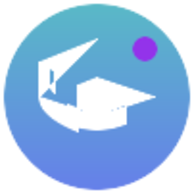
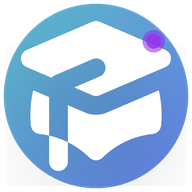
feat: モバイルアプリアイコンと同じデザインでfaviconを更新
- generate-favicons.pyをモバイルアプリアイコン(mobile/assets/icon.png)を使用するよう修正
- 全サイズのfavicon生成 (16x16, 32x32, ICO, SVG, Apple Touch Icon, Android Chrome)
- portal.blade.phpのfavicon参照を古いロゴから新しいfaviconに更新
- docs/README.mdにfavicon生成・更新手順を追加
- SVG形式をプライマリfaviconに設定（最新ブラウザ対応）

diff --git a/resources/views/layouts/portal.blade.php b/resources/views/layouts/portal.blade.php
@@ -9,8 +9,10 @@
         <title>@yield('title', 'ポータルサイト') - Famico</title>
 
         <!-- Favicons -->
-        <link rel="icon" type="image/png" href="{{ asset('images/famico-logo-20251123041515.png') }}">
-        <link rel="apple-touch-icon" href="{{ asset('images/famico-logo-20251123041515.png') }}">
+        <link rel="icon" type="image/svg+xml" href="{{ asset('favicon.svg') }}">
+        <link rel="alternate icon" type="image/png" sizes="32x32" href="{{ asset('favicon-32x32.png') }}">
+        <link rel="alternate icon" type="image/png" sizes="16x16" href="{{ asset('favicon-16x16.png') }}">
+        <link rel="apple-touch-icon" href="{{ asset('apple-touch-icon.png') }}">
         <link rel="manifest" href="{{ asset('site.webmanifest') }}">
         <meta name="theme-color" content="#59B9C6">
 

diff --git a/generate-favicons.py b/generate-favicons.py
@@ -1,12 +1,12 @@
 #!/usr/bin/env python3
 """
-Famicoロゴから各サイズのfaviconを生成するスクリプト
+モバイルアプリのアイコンから各サイズのfaviconを生成するスクリプト
 """
 from PIL import Image
 import os
 
-# 入力画像
-source = "public/images/famico-logo-20251123041515.png"
+# 入力画像（モバイルアプリのアイコンを使用）
+source = "mobile/assets/icon.png"
 output_dir = "public"
 
 # 生成するサイズ

diff --git a/docs/README.md b/docs/README.md
@@ -383,3 +383,70 @@ CACHE_STORE=array DB_HOST=localhost DB_PORT=5432 php artisan test tests/Feature/
 - **ログファイル**: `storage/logs/subscription-cleanup.log`
 - **確認項目**: 処理件数、失敗件数、孤児データ件数
 - **アラート**: `onFailure()` でエラーログ記録
+
+---
+
+## 11. Faviconの生成・更新
+
+### 11-1. 概要
+
+Webアプリケーションのfaviconは、モバイルアプリのアイコン（`mobile/assets/icon.png`）と同じデザインを使用しています。
+
+### 11-2. 生成スクリプト
+
+```bash
+# Pillow（Python画像処理ライブラリ）のインストール（初回のみ）
+sudo apt-get install -y python3-pil
+
+# favicon生成
+cd /home/ktr/mtdev
+python3 generate-favicons.py
+```
+
+**生成されるファイル**:
+- `public/favicon-16x16.png` (16×16px)
+- `public/favicon-32x32.png` (32×32px)
+- `public/favicon.ico` (複数サイズを含むICO形式)
+- `public/apple-touch-icon.png` (180×180px、iOS用)
+- `public/android-chrome-192x192.png` (192×192px、Android用)
+- `public/android-chrome-512x512.png` (512×512px、Android用)
+- `public/favicon.svg` (SVGベクター形式、`mobile/assets/icon.svg`から自動コピー)
+
+### 11-3. HTMLでの参照
+
+生成されたfaviconは以下のレイアウトファイルで自動的に参照されます:
+
+- `resources/views/layouts/app.blade.php` (認証済みユーザー画面)
+- `resources/views/layouts/guest.blade.php` (ゲスト画面)
+- `resources/views/layouts/portal.blade.php` (ポータルサイト)
+
+**HTML例**:
+```html
+<!-- Favicons -->
+<link rel="icon" type="image/svg+xml" href="{{ asset('favicon.svg') }}">
+<link rel="alternate icon" type="image/png" sizes="32x32" href="{{ asset('favicon-32x32.png') }}">
+<link rel="alternate icon" type="image/png" sizes="16x16" href="{{ asset('favicon-16x16.png') }}">
+<link rel="apple-touch-icon" href="{{ asset('apple-touch-icon.png') }}">
+```
+
+### 11-4. ブラウザキャッシュのクリア
+
+favicon変更後、ブラウザキャッシュをクリアします:
+
+```bash
+# Laravelキャッシュクリア
+php artisan view:clear
+php artisan cache:clear
+```
+
+**注意**: ブラウザ側のfaviconキャッシュは強力なため、ハードリフレッシュ（Ctrl+Shift+R / Cmd+Shift+R）が必要な場合があります。
+
+### 11-5. モバイルアイコン更新時の対応
+
+モバイルアプリのアイコン（`mobile/assets/icon.png`または`icon.svg`）を更新した場合:
+
+1. **Webアプリのfavicon再生成**: 上記11-2のスクリプトを再実行
+2. **キャッシュクリア**: 上記11-4を実行
+3. **デプロイ**: 本番環境に新しいfaviconをデプロイ
+
+---
